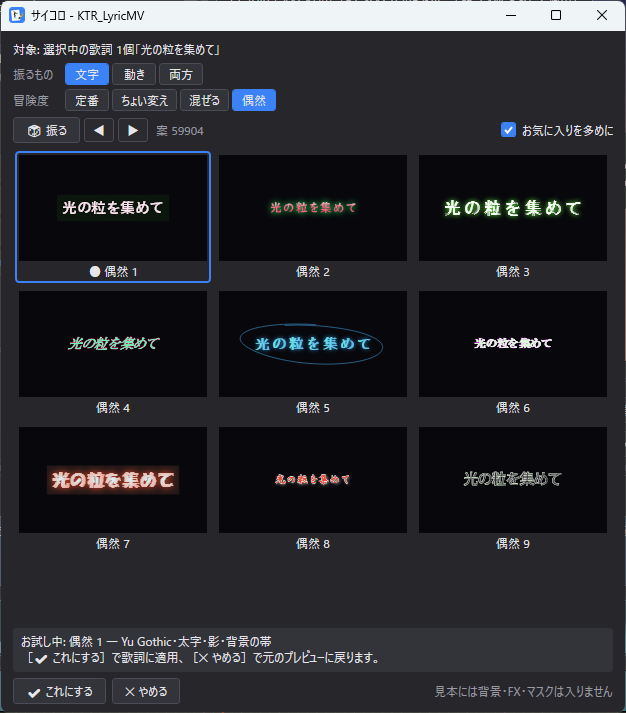
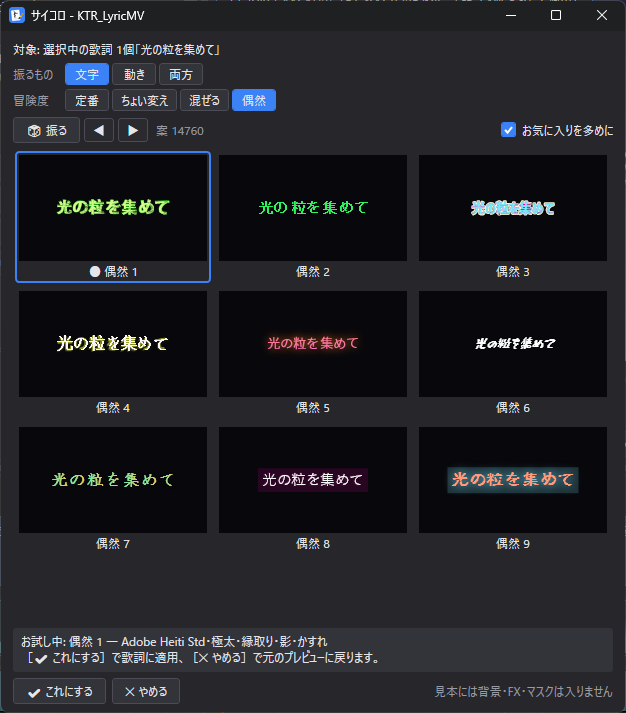
Download page for ver. 1.0: builder tool and export check/queue sections, 1.0 screenshots, start screen in STEP 2
- New sections: 曲から、まるごと組み立てる (build-tool.png) and 書き出す前に点検、まとめて予約 (export-queue.jpg), from the 1.0 Store screenshots
- main-window.png, dice.png and narration.png retaken with 1.0 (Store screenshot and the 1.0 manual)
- Tempo detection in 拍で並べる; speakers, 立ち絵, sounds and the reading preview in the narration section
- A line on what 1.0 added, linking to the latest release
- STEP 2 opens the sample from the start screen; VOICEVOX is also used by 譜割 (page and README)

diff --git a/docs/index.html b/docs/index.html
@@ -181,7 +181,7 @@
     <h2>3 ステップではじめる</h2>
     <ol class="beats">
       <li><span class="n">STEP 1</span><b>Microsoft Store から入れる</b><p>上のボタンからストアのページを開き、「入手」を押します。スタートメニューに KTR_LyricMV が入ります。</p></li>
-      <li><span class="n">STEP 2</span><b>サンプルを開く</b><p>☰ メニューの「サンプルを開く」→「はじめての歌詞動画」。Space で再生してみましょう。</p></li>
+      <li><span class="n">STEP 2</span><b>サンプルを開く</b><p>起動すると出るスタート画面の「サンプルを開く」から「はじめての歌詞動画」を選びます。Space で再生してみましょう。</p></li>
       <li><span class="n">STEP 3</span><b>歌詞を選んで見本を押す</b><p>「かんたん」タブの見本（タイル）を押すと、その歌詞の見た目や動きが変わります。</p></li>
     </ol>
     <p class="smart">動画に書き出すときだけ、無料の変換ソフト ffmpeg が必要になります。<br>
@@ -191,13 +191,18 @@
 
   <section id="features">
     <h2>できること</h2>
+    <p class="smart" style="margin: -6px 0 26px">ver. 1.0 で、曲から組み立てる・テンポの自動検出・書き出しの予約などが加わりました（<a href="https://github.com/KTR-Shibata/KTR_LyricMV-releases/releases/latest">変更点の一覧</a>）。</p>
     <div class="feat">
       <div class="pic"><img src="assets/main-window.png" alt="KTR_LyricMV のメイン画面。左に編集パネル、右にプレビュー、下に拍のタイムライン"></div>
-      <div><h3>拍で並べる、見たまま書き出す</h3><p>位置と長さは秒ではなく「小節・拍」。曲を流しながら Enter を押すだけで、歌詞を 1 行ずつ置けます。プレビューの絵と音が、そのまま MP4 になります。</p></div>
+      <div><h3>拍で並べる、見たまま書き出す</h3><p>位置と長さは秒ではなく「小節・拍」。曲を流しながら Enter を押すだけで、歌詞を 1 行ずつ置けます。テンポと 1 小節目の頭は、曲を聞いて自動で見つけられます。プレビューの絵と音が、そのまま MP4 になります。</p></div>
     </div>
     <div class="feat">
       <div class="pic"><img src="assets/dice.png" alt="サイコロのウィンドウ。選んだ歌詞を 9 通りの見た目で描いた案が並ぶ"></div>
       <div><h3>迷ったら、サイコロで 9 案</h3><p>グラデーション・光沢・質感・筆のかすれなど 54 種の見た目と、登場・退場・ループの動きから選べます。決めきれないときはサイコロを振ると、選んだ歌詞そのもので 9 通りの案が並びます。押して試し、気に入ったら「これにする」。</p></div>
+    </div>
+    <div class="feat">
+      <div class="pic"><img src="assets/build-tool.png" alt="組み立てツールの画面。左に雰囲気のボタンとパートの一覧、右に組み立ての報告"></div>
+      <div><h3>曲から、まるごと組み立てる</h3><p>曲・歌詞のテキスト・歌詞の入ったボーカル MIDI と写真を選び、雰囲気（しっとり・元気・サイバー・和風など 14 種）を選ぶと、歌に合わせて歌詞を並べたプロジェクトができあがります。そこから自由に手直しできます。歌詞の無いメロディの MIDI に歌詞を当てる「譜割」も付いています。</p></div>
     </div>
     <div class="feat">
       <div class="pic"><video src="assets/jizura.mp4" poster="assets/jizura.jpg" autoplay muted loop playsinline aria-label="JIZURA レイヤー（JZシンセ80s）が歌詞から組み立てた文字PV の 8 秒。帯がずれ重なる文字、円に沿う文字、吹き出しなどが次々に切り替わる"></video></div>
@@ -205,11 +210,15 @@
     </div>
     <div class="feat">
       <div class="pic"><img src="assets/narration.png" alt="読み上げて並べるのダイアログ。本文の欄に小説の文章、声・速さ・高さなどの設定"></div>
-      <div><h3>小説を読み上げて、朗読動画に</h3><p>小説などの文章を、PC で動かした VOICEVOX に 1 文ずつ読み上げてもらい、声の音声トラックと、数行ずつの文字のクリップにして並べます。声の大きさも聴きやすく整えるので、朗読動画やオーディオブックがすぐ作れます。</p></div>
+      <div><h3>小説を読み上げて、朗読動画に</h3><p>小説などの文章を、PC で動かした VOICEVOX に 1 文ずつ読み上げてもらい、声の音声トラックと、数行ずつの文字のクリップにして並べます。人物ごとに声・見た目・立ち絵を変えたり、効果音・BGM・背景を入れたりもできます。読み方は文ごとに下見して直せて、声の大きさも聴きやすく整えるので、朗読動画やオーディオブックがすぐ作れます。</p></div>
     </div>
     <div class="feat">
       <div class="pic"><img src="assets/scene.jpg" alt="夕焼けの山並みと木の枝を奥行き違いで重ねた景色に、歌詞「夜をほどいていく」"></div>
       <div><h3>背景・カメラ・光で仕上げる</h3><p>写真や動画、雨や光の粒などアプリが描く素材、音に合わせて動くスペクトラム、360° 写真。奥行きのあるカメラの動きや、拍に合わせた閃光で、歌詞の後ろの景色も動かせます。</p></div>
+    </div>
+    <div class="feat">
+      <div class="pic"><img src="assets/export-queue.jpg" alt="書き出し前の点検の窓に見つからない素材が並び、書き出しの予約の窓に冒頭だけと本編の 2 つが待っている画面"></div>
+      <div><h3>書き出す前に点検、まとめて予約</h3><p>見つからない素材や、この PC に無い書体などを、書き出す前に知らせます。本編・サビだけ・音声だけなどを予約に並べておけば、続けて書き出せます。</p></div>
     </div>
   </section>
 
@@ -220,7 +229,7 @@
         <ul class="needs">
           <li><span class="tag must">必要</span><span>Windows 10 / 11（64 ビット）。.NET は同梱しているので、別に入れるものはありません。</span></li>
           <li><span class="tag opt">書き出すとき</span><span><a href="https://ffmpeg.org/download.html">ffmpeg</a>（無料）。歌詞を置く・見た目を付ける・再生するだけなら無くても使えます。</span></li>
-          <li><span class="tag opt">読み上げ</span><span><a href="https://voicevox.hiroshiba.jp/">VOICEVOX</a>（文章を声で読ませるときだけ）。</span></li>
+          <li><span class="tag opt">読み上げ</span><span><a href="https://voicevox.hiroshiba.jp/">VOICEVOX</a>（文章を声で読ませるとき、譜割で漢字の読みを調べるときだけ）。</span></li>
           <li><span class="tag opt">JIZURA</span><span>Microsoft Edge WebView2（Windows 11 には最初から入っています）。</span></li>
         </ul>
       </div>

diff --git a/README.md b/README.md
@@ -27,7 +27,7 @@
 - Windows 10 / 11（64 ビット）。.NET は同梱しているので、別のインストールは不要です
 - 動画の書き出しと動画素材の読み込みには [ffmpeg](https://ffmpeg.org/download.html) が必要です（同梱していません。入れ方は使い方ガイドに）
 - JIZURA レイヤーには Microsoft Edge WebView2 ランタイム（Windows 11 には最初から入っています）、
-  読み上げて並べるには [VOICEVOX](https://voicevox.hiroshiba.jp/) が必要です（使うときだけ）
+  読み上げて並べると、組み立てツールの譜割で漢字の読みを調べるときには [VOICEVOX](https://voicevox.hiroshiba.jp/) が必要です（使うときだけ）
 
 <details>
 <summary>インストーラー版・zip 版をはじめて起動するとき・ファイルの確かめ方</summary>
